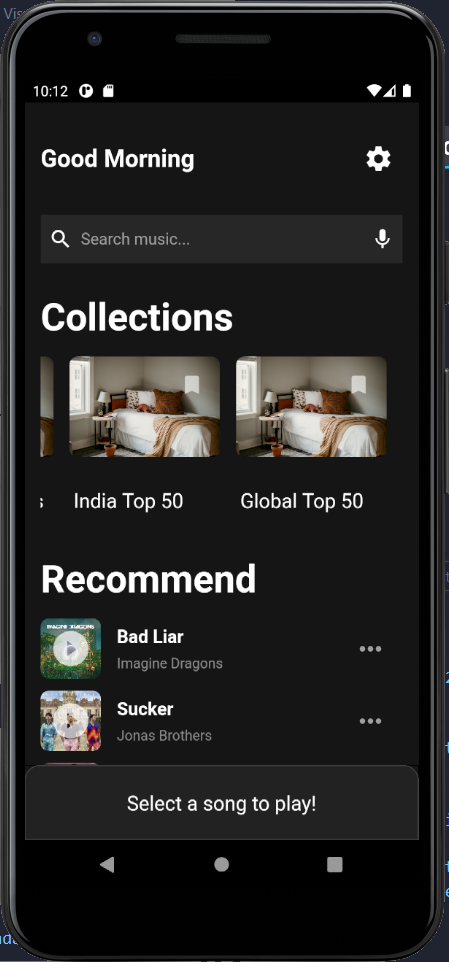
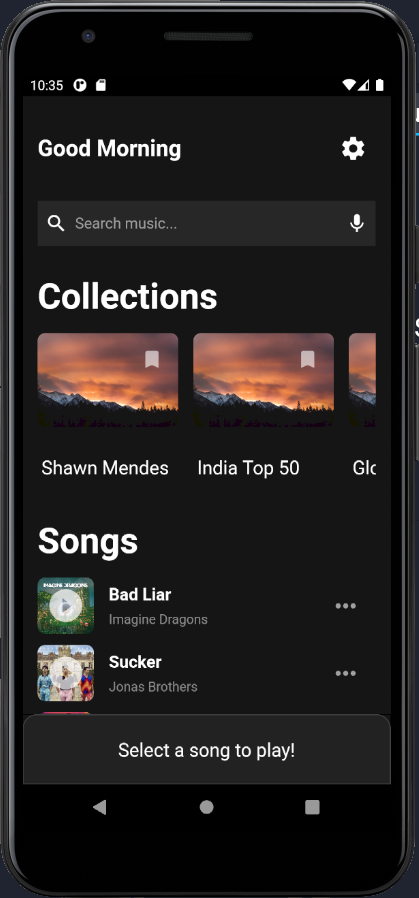
minor changes in homepage.dart

diff --git a/lib/homepage.dart b/lib/homepage.dart
@@ -129,7 +129,7 @@ class _MyHomePageState extends State<MyHomePage> {
                       // )
                     }),
                 Text(
-                  'Recommend',
+                  'Songs',
                   style: TextStyle(
                       color: Colors.white,
                       fontWeight: FontWeight.bold,
